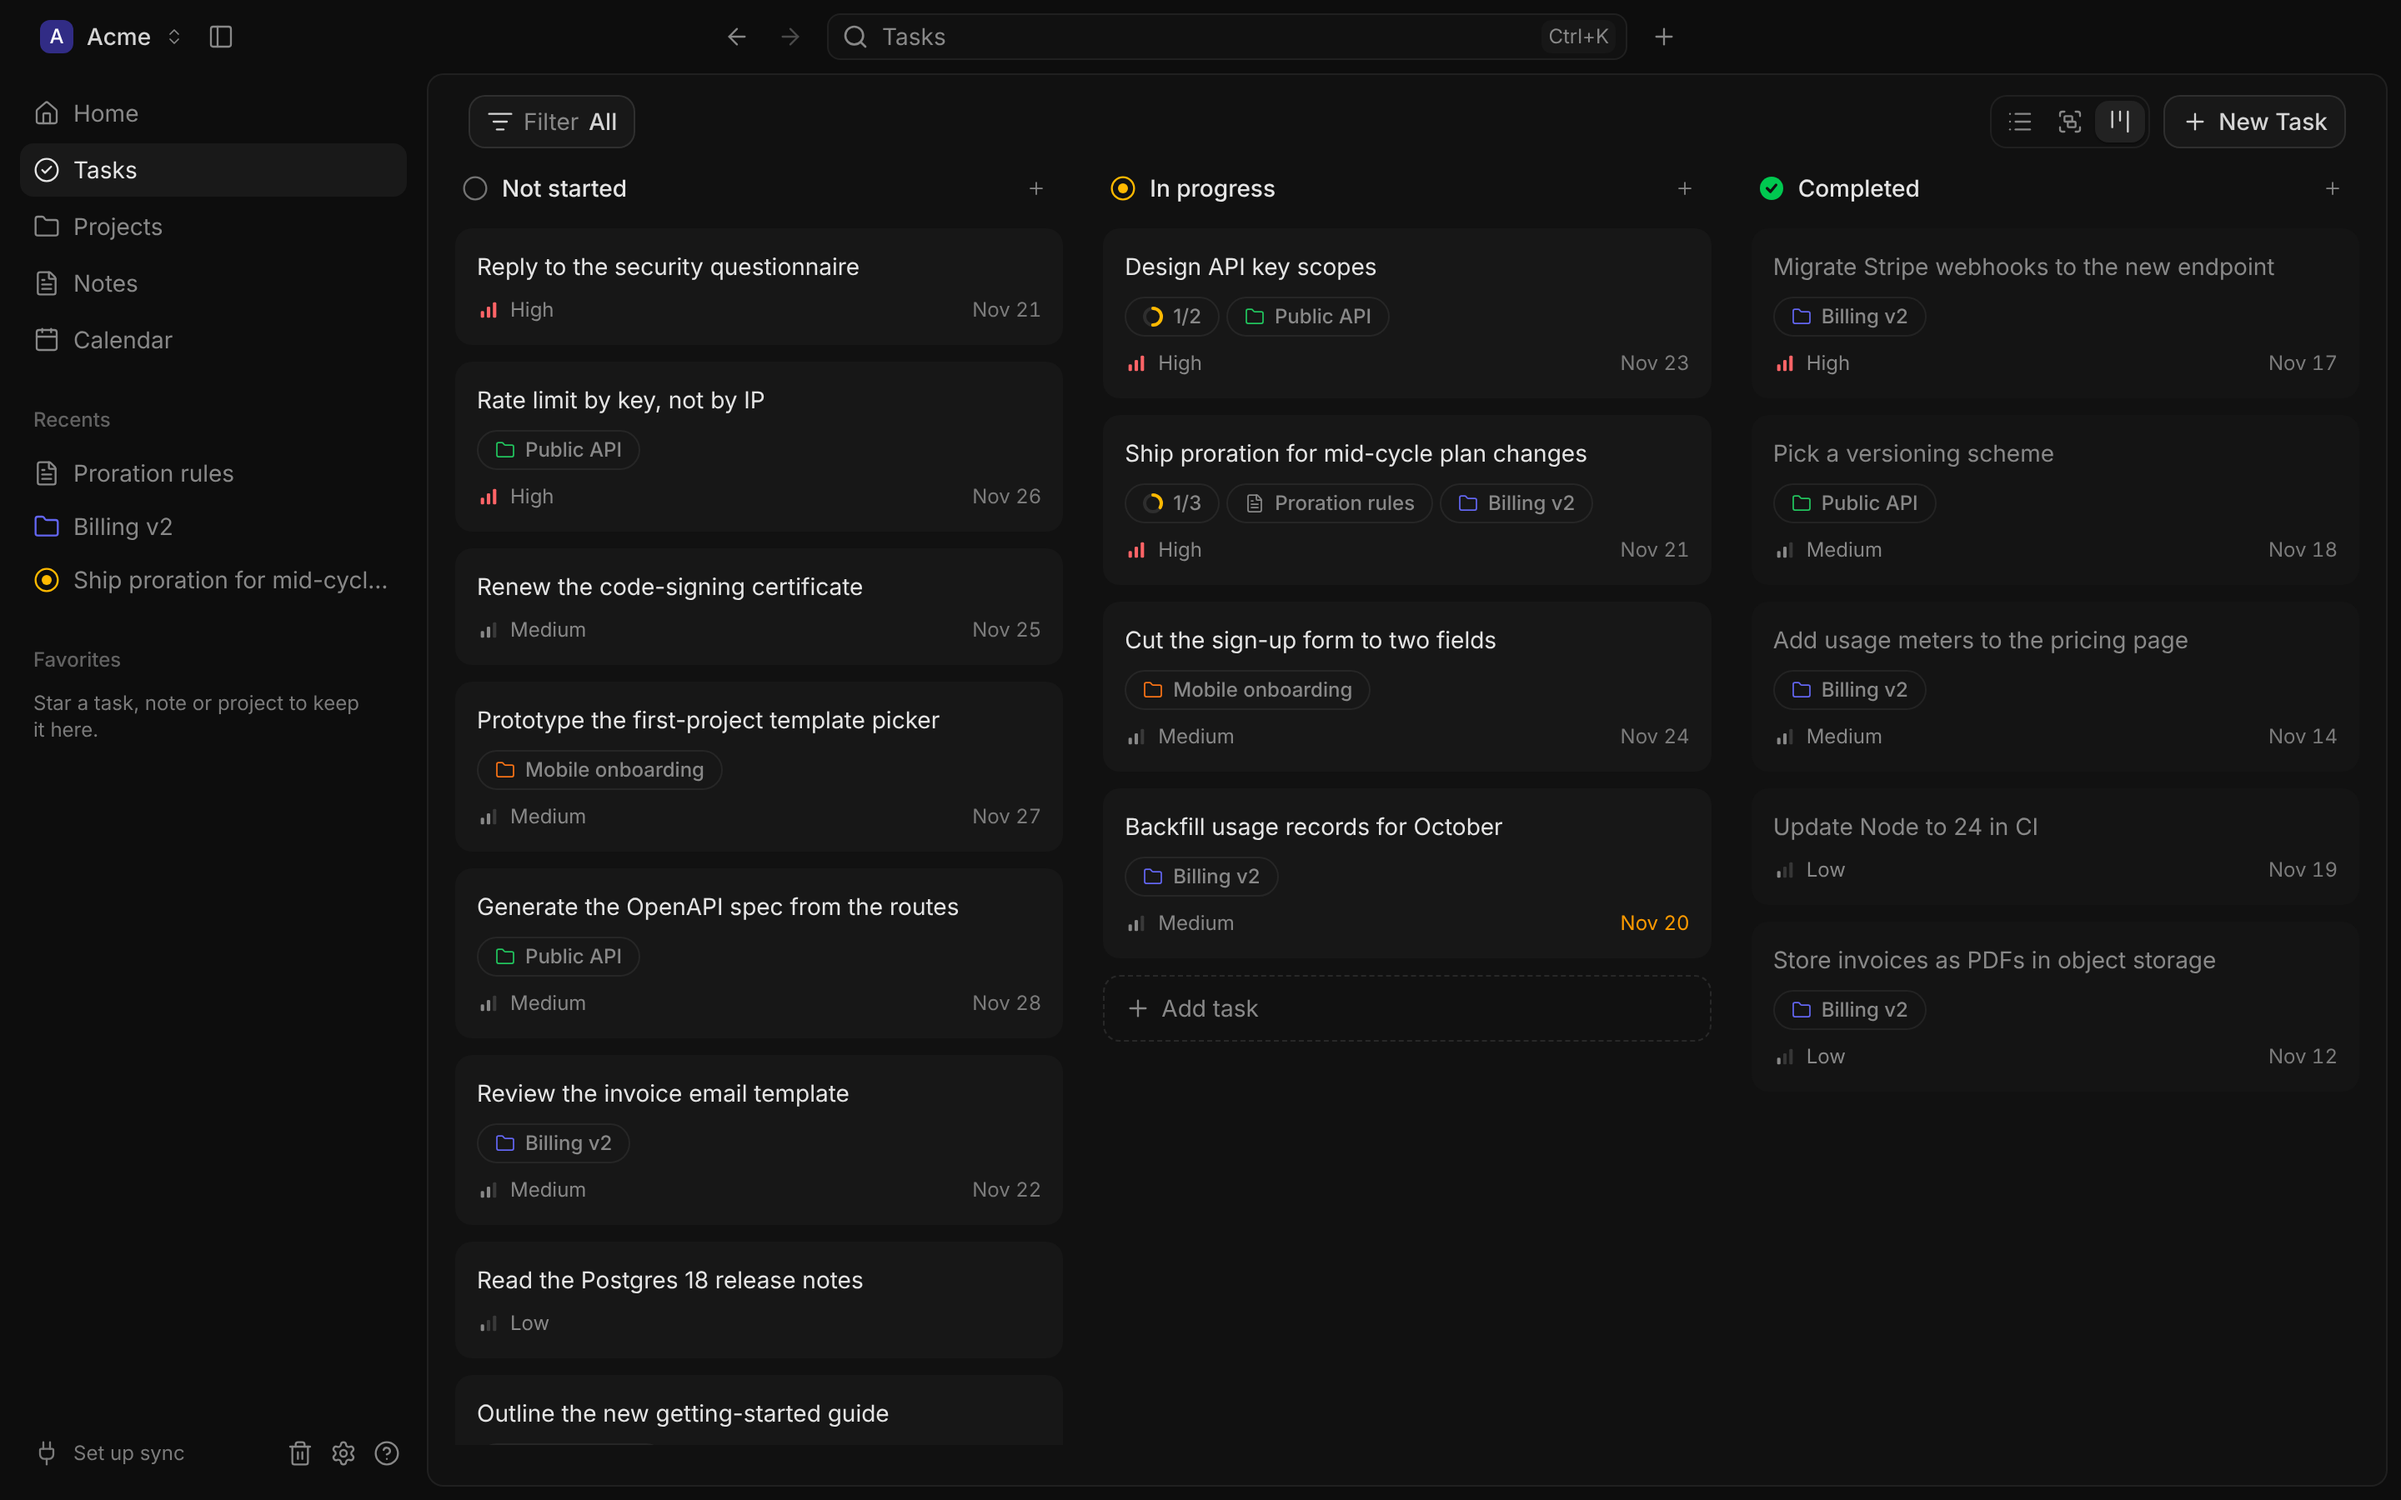
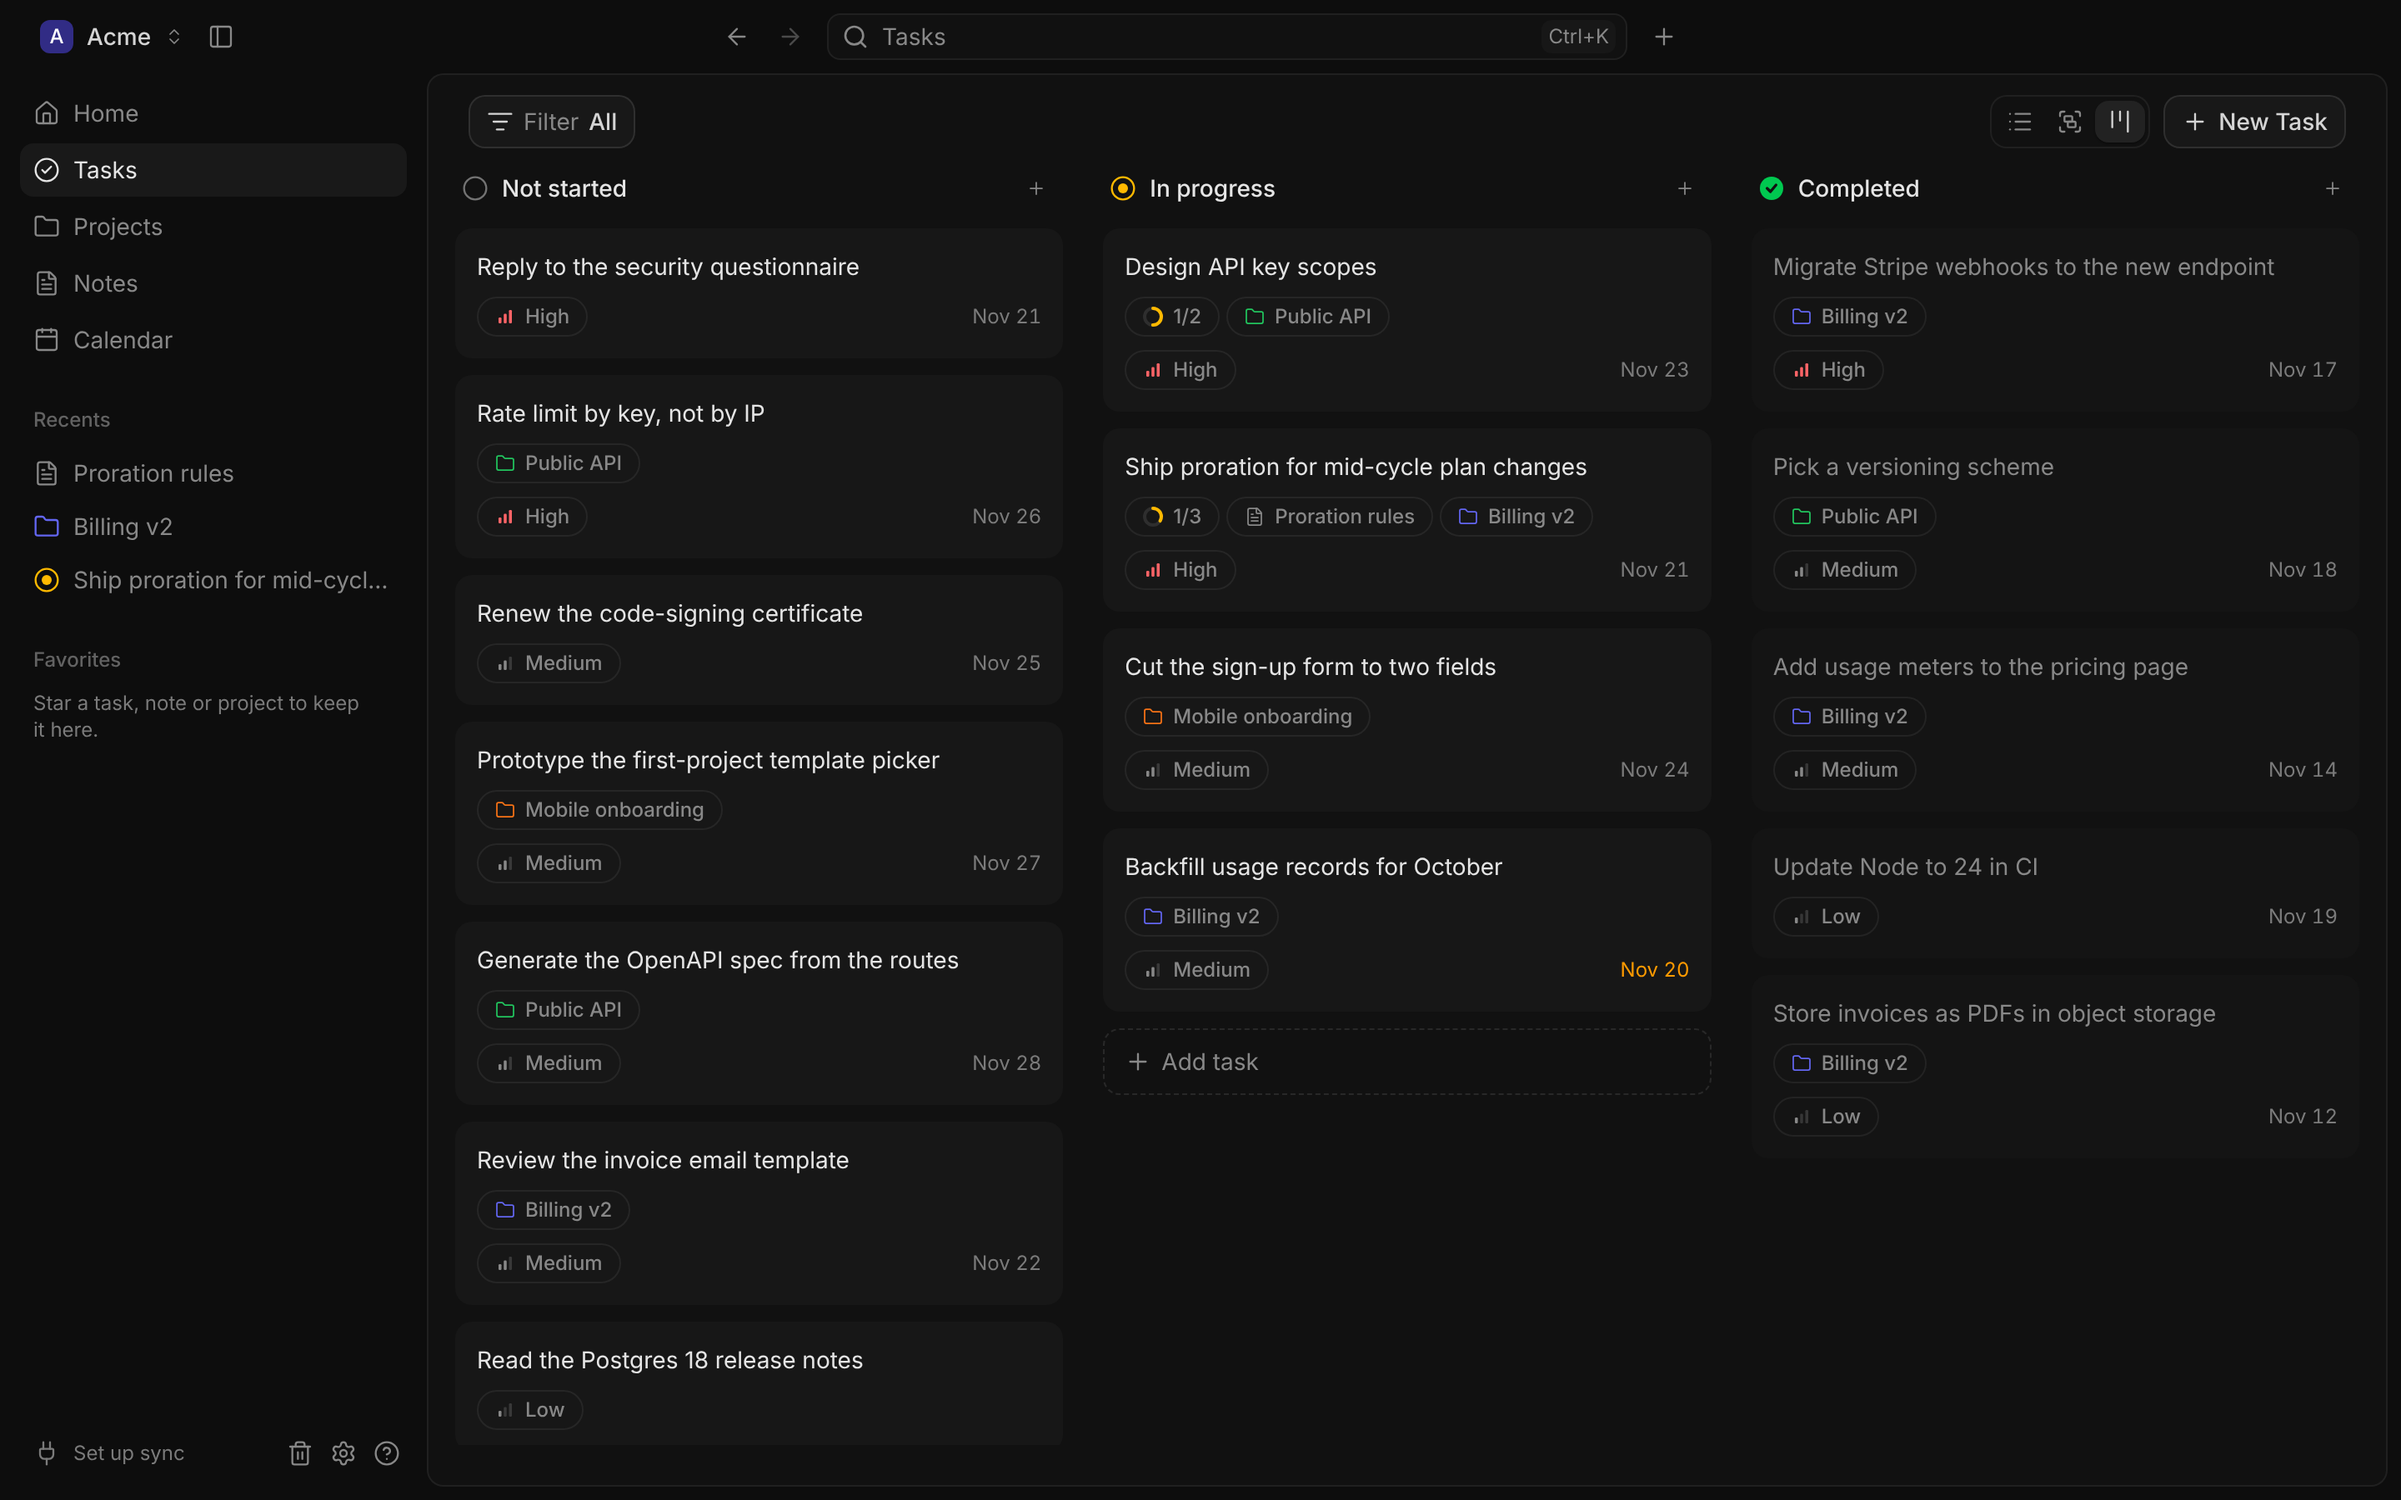
Show a board card's priority as the task page's pill
The meta line's priority is an EntityPill with the 12px gauge and its
name, as the task page draws it (a synced task's provider's own word,
such as "Urgent"), with the date on the right.

Claude-Session: https://claude.ai/code/session_01P34MGcTKNK2A8wbbAQ95BC

diff --git a/src/renderer/components/board/BoardCard/BoardCard.tsx b/src/renderer/components/board/BoardCard/BoardCard.tsx
@@ -47,8 +47,8 @@ function fromControl(event: MouseEvent<HTMLElement>): boolean {
 
 /**
  * A task on the board, drawn from core's `TaskListItem`: the title, then its relations as the pills
- * a task row uses (the key, its subtasks, the linked event or note, the project), then priority (its gauge
- * and name, "High") and the due date ("Jul 1" from `useFormat()`'s `formatListDate`, coloured when due today or overdue,, which moves once a day).
+ * a task row uses (the key, its subtasks, the linked event or note, the project), then priority (a pill
+ * with its gauge and name, "High", as the task page shows it) and the due date ("Jul 1" from `useFormat()`'s `formatListDate`, coloured when due today or overdue,, which moves once a day).
  * A borderless filled card; focusable, so it opens on Enter as well as on click.
  */
 export const BoardCard = forwardRef<HTMLDivElement, BoardCardProps>(function BoardCard(
@@ -93,10 +93,12 @@ export const BoardCard = forwardRef<HTMLDivElement, BoardCardProps>(function Boa
       <div className={styles.title}>{task.title}</div>
       {pills.length > 0 && <div className={styles.pills}>{pills}</div>}
       <div className={styles.meta}>
-        <span className={styles.priority}>
-          <PriorityIcon priority={task.priority} size={14} />
-          <span aria-hidden>{PRIORITY_LABELS[task.priority]}</span>
-        </span>
+        <EntityPill
+          interactive={false}
+          glyph={<PriorityIcon priority={task.priority} size={12} />}
+        >
+          {external?.priorityLabel ?? PRIORITY_LABELS[task.priority]}
+        </EntityPill>
         {task.dueDate ? (
           <span className={styles.date} data-tone={dueTone(task.status, task.dueDate, now)}>
             {formatListDate(task.dueDate)}

diff --git a/src/renderer/components/board/BoardCard/BoardCard.module.css b/src/renderer/components/board/BoardCard/BoardCard.module.css
@@ -70,13 +70,7 @@
 }
 
 /* priority, then the date on the right */
-/* the gauge and its name ("High"); the icon names itself to screen readers, the word is for sight */
-.priority {
-  display: inline-flex;
-  align-items: center;
-  gap: var(--space-1-5);
-  white-space: nowrap;
-}
+
 .meta {
   display: flex;
   align-items: center;

diff --git a/docs/design-system/README.md b/docs/design-system/README.md
@@ -80,7 +80,7 @@ DevBrain's design system: shadcn's Nova style with DevBrain's colours, glyphs an
 - **Row states.** Rest, hover (`row-selected`, the selected tint), selected (`row-selected` with `row-selected-foreground` titles; neighbouring selected rows join into one block), keyboard focus (the hover tint with a 1px `ring` outline around the whole row, no halo), completed (the title in `muted-foreground`, not struck through), overdue (flag and `date-overdue`), subtask (indented).
 - **Selection bar.** While rows are selected, a `SelectionBar` floats over the bottom of the list: the count, then Status, Priority, Due date, Move, more, and clear.
 - **Grouped list.** `GroupHeading` is a 36px band in one line, `muted` with the group's colour mixed in (5% in dark, 8% in light): the group's 14px icon in its colour, the title and the count ("Auth Overhaul 12"; an event adds its time, "Mitchell / Jesse 1:1 Today, 10:00 AM 1"), and a "+" on hover. In a grouped `TaskList` it sticks to the top of the list while its group scrolls.
-- **Board.** Open `BoardColumn`s (no panel, 24px apart) hold borderless filled `BoardCard`s (`card`): the title, then the task's relations as the same pills a task row uses (source, subtasks, event or note, project), wrapping as needed, then priority (its gauge and name) and the date. Hover lightens the card, with no outline; completed cards go darker; each open column ends with a dashed "Add task" slot.
+- **Board.** Open `BoardColumn`s (no panel, 24px apart) hold borderless filled `BoardCard`s (`card`): the title, then the task's relations as the same pills a task row uses (source, subtasks, event or note, project), wrapping as needed, then priority (a pill with its gauge and name, as on the task page) and the date. Hover lightens the card, with no outline; completed cards go darker; each open column ends with a dashed "Add task" slot.
 - **Toolbar values.** Toolbar buttons show their current choice after the label ("Filter Assigned to me", "Sort Due date"), still Nova's quiet button. The main action stays the quiet `default` "New Task", not `primary`. In compact windows the values hide (the label stays, an active filter shows as the pressed state, the value moves to the tooltip).
 - **Long lists are virtualized and scroll on their own.** `TaskList` (flat and grouped), `NoteList`, `ProjectList`, each `BoardColumn` and `VirtualCardGrid` fill the height the page gives them and scroll there, under the page header, which never scrolls away; each board column scrolls by itself. `PageContent`'s `list` and `grid` layouts give them that height under the toolbar, so a list page never scrolls. They draw only what is in view, with `@tanstack/react-virtual`; rows are `row-height` tall, and focus and selection are kept by id so they survive scrolling. The grouped view is one list whose current heading sticks to its top. Each calls `onEndReached` near its last loaded rows to load the next page.
 - **Pills stack when a row runs out of room.** On each side of the title the pills overlap like a deck: the last shows in full, the ones behind show their edge and icon, and the row keeps its 48px. Pointing at a stack (or focusing it) spreads it out over the end of the title until the pointer leaves. Priority, the date and the status icon never give way; the title shortens only after the pills have stacked.

diff --git a/docs/design-system/components/BoardCard.md b/docs/design-system/components/BoardCard.md
@@ -4,7 +4,7 @@ A task on the board, carrying the same pills as its task row so a task reads the
 
 - **Title** first, 14px `foreground-strong`, wrapping.
 - **Pills** under it, 4px apart, wrapping onto further lines: the synced task's `SourcePill`, the subtask count (`ProgressRing`, as in rows), the task's `link` (an event, as an `EntityPill` with its calendar's bar, or a note), then the project (its folder in the project's colour). All 24px. A name too long for the card ellipsises inside it. A task with no links has no pill line. The key, the link and the project open their `EntityHoverCard` after about 400ms of pointing, from the `PillHoverCardsProvider` around the page, as in a task row.
-- **Meta line** last: the priority on the left, its `PriorityIcon` (14px) and its name in `muted-foreground` ("High", "Medium", "Low", "No priority"), the due date on the right, from `useFormat()`'s `formatListDate`, always the date ("Jul 1"; "Dec 2025" when not this year's), and coloured by `dueTone` from the status, the date and `now`: `date-today` for an open task due today, `date-overdue` for an overdue one. A completed task (`TaskStatus.COMPLETED`) keeps its priority, as every task does, so the line always shows.
+- **Meta line** last: the priority on the left, as the task page shows it: an `EntityPill` with its 12px `PriorityIcon` and its name ("High", "Medium", "Low", "No priority"; a synced task's provider's own word, such as Linear's "Urgent"), the due date on the right, from `useFormat()`'s `formatListDate`, always the date ("Jul 1"; "Dec 2025" when not this year's), and coloured by `dueTone` from the status, the date and `now`: `date-today` for an open task due today, `date-overdue` for an overdue one. A completed task (`TaskStatus.COMPLETED`) keeps its priority, as every task does, so the line always shows.
 - **No due date.** An open card without one shows nothing in the date's place at rest. With `onDueDateChange`, a `SetDueDateButton` (a quiet calendar-plus and "Due", named "Set due date") takes the place while the card is pointed at or focused, and stays while its picker is open. A closed or synced card never shows it.
 - **Card:** borderless and filled (`card`; `neutral-100` in light, where a borderless card needs a step more to show on white), 12px padding, 8px between its lines, 10px corners. On hover it fills with `accent` (`neutral-800` in dark, Figma's `card-fill-hover`), with no outline: the fill alone shows it. Keyboard focus takes Nova's ring. Completed cards go darker with a dimmed title.
 - **Clicks:** a pill opens what it links to; a click anywhere else opens the task (`onClick` doesn't fire for clicks on the pills).
